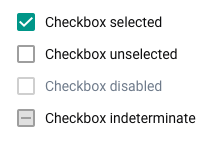
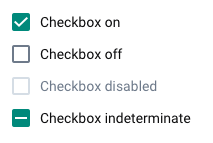
Indeterminate checkbox, checkbox sizes

diff --git a/atoms/checkbox.md b/atoms/checkbox.md
@@ -11,7 +11,14 @@ Do not use checkboxes in a list of several options where only a single option ca
 #### States
 The checked/unchecked/disabled states of a checkbox are self-explanatory. An indeterminate state is used when some, but not all, of the child elements are selected. This state represents a middle ground between checked/unchecked.
 
-`todo - add example of indeterminate checkbox`
+An example of an indeterminate checkbox:
+
+![](../images/checkbox-indeterminate.png)
+
+#### Sizes
+
+Checkboxes are available in Regular and Dense sizes. Regular size is usually used in forms and whenever a checkbox, or checkboxes, are used standalone. Dense size checkboxes are used inside other complex components, not as main elements of a UI.
+
 
 ## Examples in use
 
